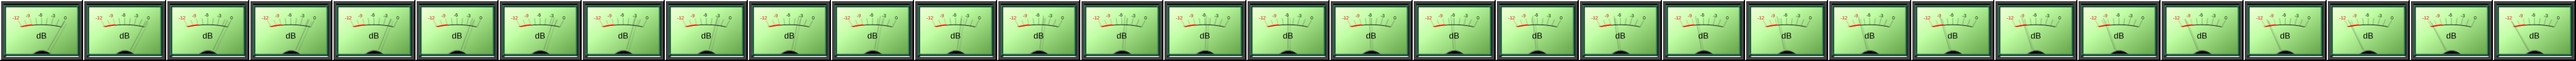
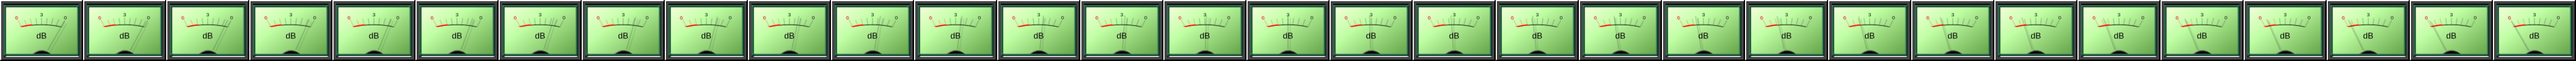
Hyrax: gain-reduction meter full scale 12 dB -> 6 dB
The GR needle only reached the top of the old 12 dB face on extreme material.
Halve the visible full scale to 6 dB (kGainReductionMeterDb) for finer
resolution on normal program; reductions beyond 6 dB just peg the needle. The
transport encoding range (kGainReductionMaxDb) stays 24 dB so the processor can
still report larger reductions, which the meter clamps. Updated the meter
faceplate art to the 0..-6 dB scale.

Changed region(s): [[0.0, 0.234, 1.0, 0.2766]]

diff --git a/plugins/hyrax_limiter/source/HyraxParams.h b/plugins/hyrax_limiter/source/HyraxParams.h
@@ -43,8 +43,11 @@ enum ParamId : Steinberg::Vst::ParamID
 // a smaller fixed visible scale (see kGainReductionMeterDb).
 constexpr double kGainReductionMaxDb = 24.0;
 
-// Fixed visible full scale (dB) of the editor's gain-reduction meter.
-constexpr double kGainReductionMeterDb = 12.0;
+// Fixed visible full scale (dB) of the editor's gain-reduction meter. Matches
+// the printed 0..-6 dB scale on gain_reduction_meter.png; GR beyond this pegs
+// the needle. The transport encoding range (kGainReductionMaxDb) stays wider so
+// the processor can still report larger reductions, which the meter just clamps.
+constexpr double kGainReductionMeterDb = 6.0;
 
 // Plain-value range for a linear parameter, matching the RangeParameter the
 // controller registers. Shared so the processor's normalized<->plain mapping
